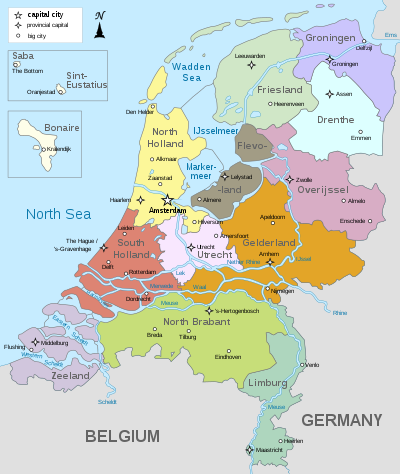
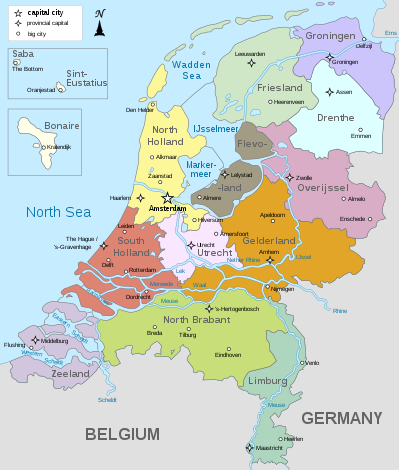
Home update

diff --git a/index.html b/index.html
@@ -4,6 +4,9 @@
 	<title>Living in NL</title>
 	<link href="style.css" rel="stylesheet">
 	<style>
+	h2 {
+		font-family: cursive;
+	}
 	.banner { 
 		background-image: url(flag.jpg);
 		background-size: cover;
@@ -24,16 +27,11 @@
 	.intro {
 		font-family: serif;
 		font-size: 20px;
+		text-allign: center;
 	}
-	.jump {
-		font-family: serif;
-		width: 63%;
-		background-color: red;
-		color: white;
-		font-size: 20px;
-	}
+	
 	.internallink {
-		color: white;
+		color: black;
 	}
 	#group1 {
 		border: 5px solid red;
@@ -44,11 +42,75 @@
 	}
 	#map {
 		width:500px;
-		height: 340px;
+		height: 330px;
         float:right;
         padding-right: 20px;
+        border: 5px solid red;
+
 	}
-	
+	.gov {
+		float: right;
+		width: 40%;
+		height: 200px;
+		background-color: #38B7FF;
+		color: white;
+		font-family: serif;
+		padding-left: 15px;
+		margin-top: 20px;
+	}
+	.royalsimg {
+		float: right;
+		height: 200px;
+		margin-top: 20px;
+		margin-left: 20px;
+
+	}
+	.molenimg {
+		height: 200px;
+		margin-top: 20px;
+		width: 590px;
+	}
+	.econ {
+		text-allign: right;
+		background-color: #38B7FF;
+		color: white;
+		width: 40%;
+		height: 200px;
+		font-famil: serif;
+		padding-left: 20px;
+		padding-top: 20px;
+		margin-top: 20px;
+	}
+	.cowimg {
+		float: right;
+		height: 220px;
+		width: 57%;
+		margin-top: 20px;
+		
+	}
+	.prosandconscontainer {
+		width: 1420px; height: 450px; 
+	}
+	.prosandcons {
+		width: 40%; height: 200px; float: left;
+	 		border: 5px solid red ;
+	 		padding: 40px;
+	 		margin: 25px;
+	 		font-family: serif;
+	}
+	#TLDR {
+		text-align: center;
+		color: red;
+		font-size: 30px;
+	}
+	#sentence {
+		text-align: center;
+	}
+	.endimg {
+		width: 100%;
+		height: 500px;
+	}
+
 
 	</style>
 </head>
@@ -76,7 +138,7 @@
 </div>
 
 	<p class="jump">Use the following internal links to jump to sections on this page:<br>
-		<a class="internallink" href="#basics">Basic Inforrmation,</a>
+		<a class="internallink" href="#basics">Basic Information,</a>
         <a class="internallink" href="#gov">Government,</a>
         <a class="internallink" href="#econ">Economic Facts,</a>
         <a class="internallink" href="#TLDR">Too Long; Didn't Read: Pros and Cons,</a>
@@ -88,16 +150,23 @@
 		<p>The Netherlands, also known as Holland, is a country in the North West of Europe known for tulips, windmills, cycling lifesyle, and other important landmarks. It is popular among expats because of its high standard of living and open minded people. The capital city is the canal filled Amsterdam where finance and tech industries welcom many international people. Rotterdam and The Hague also attract many workers from all around th world. There 17.28 people living in The Netherlands. The currency is Euro and the official language is Dutch, but everyone speaks English as well.</p>
 		
 	</div>
-
-	
+	<img class="royalsimg" src="royals.jpg">
+	<img class="molenimg" src="molen.jpg">
+	<div class="gov">
 	<h2 id="gov">Government </h2>
  		<p>The Netherlands is a constitutional monarchy which means that it does have a King and Queen, but there is a constitutionally organized governement and the head of state is the Prime Minister; Mark Rutte. King Willem Alexander van Oranje and Queen Maxima are the ceremonial leaders of Holland.</p>
+ 	</div>
+ 	<img class="cowimg" src="cow.jpg">
+ 	<div class="econ">
  	<h2 id="econ"> Economic Facts</h2>
  		<p> The Netherlands is a country in the EU so it does have the euro currency. The minimum wage is about 1,635.60 euros per month. The GDP or gross domestic product is 912.2 billion dollars and the GDP per capita or how much a person owns is about 52,304.06 dollars.</p>
+ 	</div>
 
 	<h2 id="TLDR"> Too long; Didn't Read</h2>
-		<p> If you don't have time to look into the specifics in each page then here are some pros and cons of living in NL.</p>
-	<h3 id="pros">Pros</h3>
+		<p id="sentence"> If you don't have time to look into the specifics in each page then here are some pros and cons of living in NL.</p>
+	<div class="prosandconscontainer">
+	<div class="prosandcons">
+		<h3 id="pros">Pros</h3>
 		<ol>
 			<li>Good education system</li>
 			<li>Good social security</li>
@@ -107,6 +176,8 @@
 			<li>Small and easy to get around with public transportation and cycling</li>
 			<li>Everyone speaks English</li>
 		</ol>
+	</div>
+	<div class="prosandcons">
 	<h3 id="cons">Cons</h3>
 		<ol>
 			<li>High Taxes</li>
@@ -114,6 +185,8 @@
  			<li>Housing Shortage and High Cost of Living</li>
  			<li>Stores Close Early</li>
  		</ol>
+ 	</div>
+ 	<img class="endimg"src="home.jpg">
 
 	</body>
 	</html>
